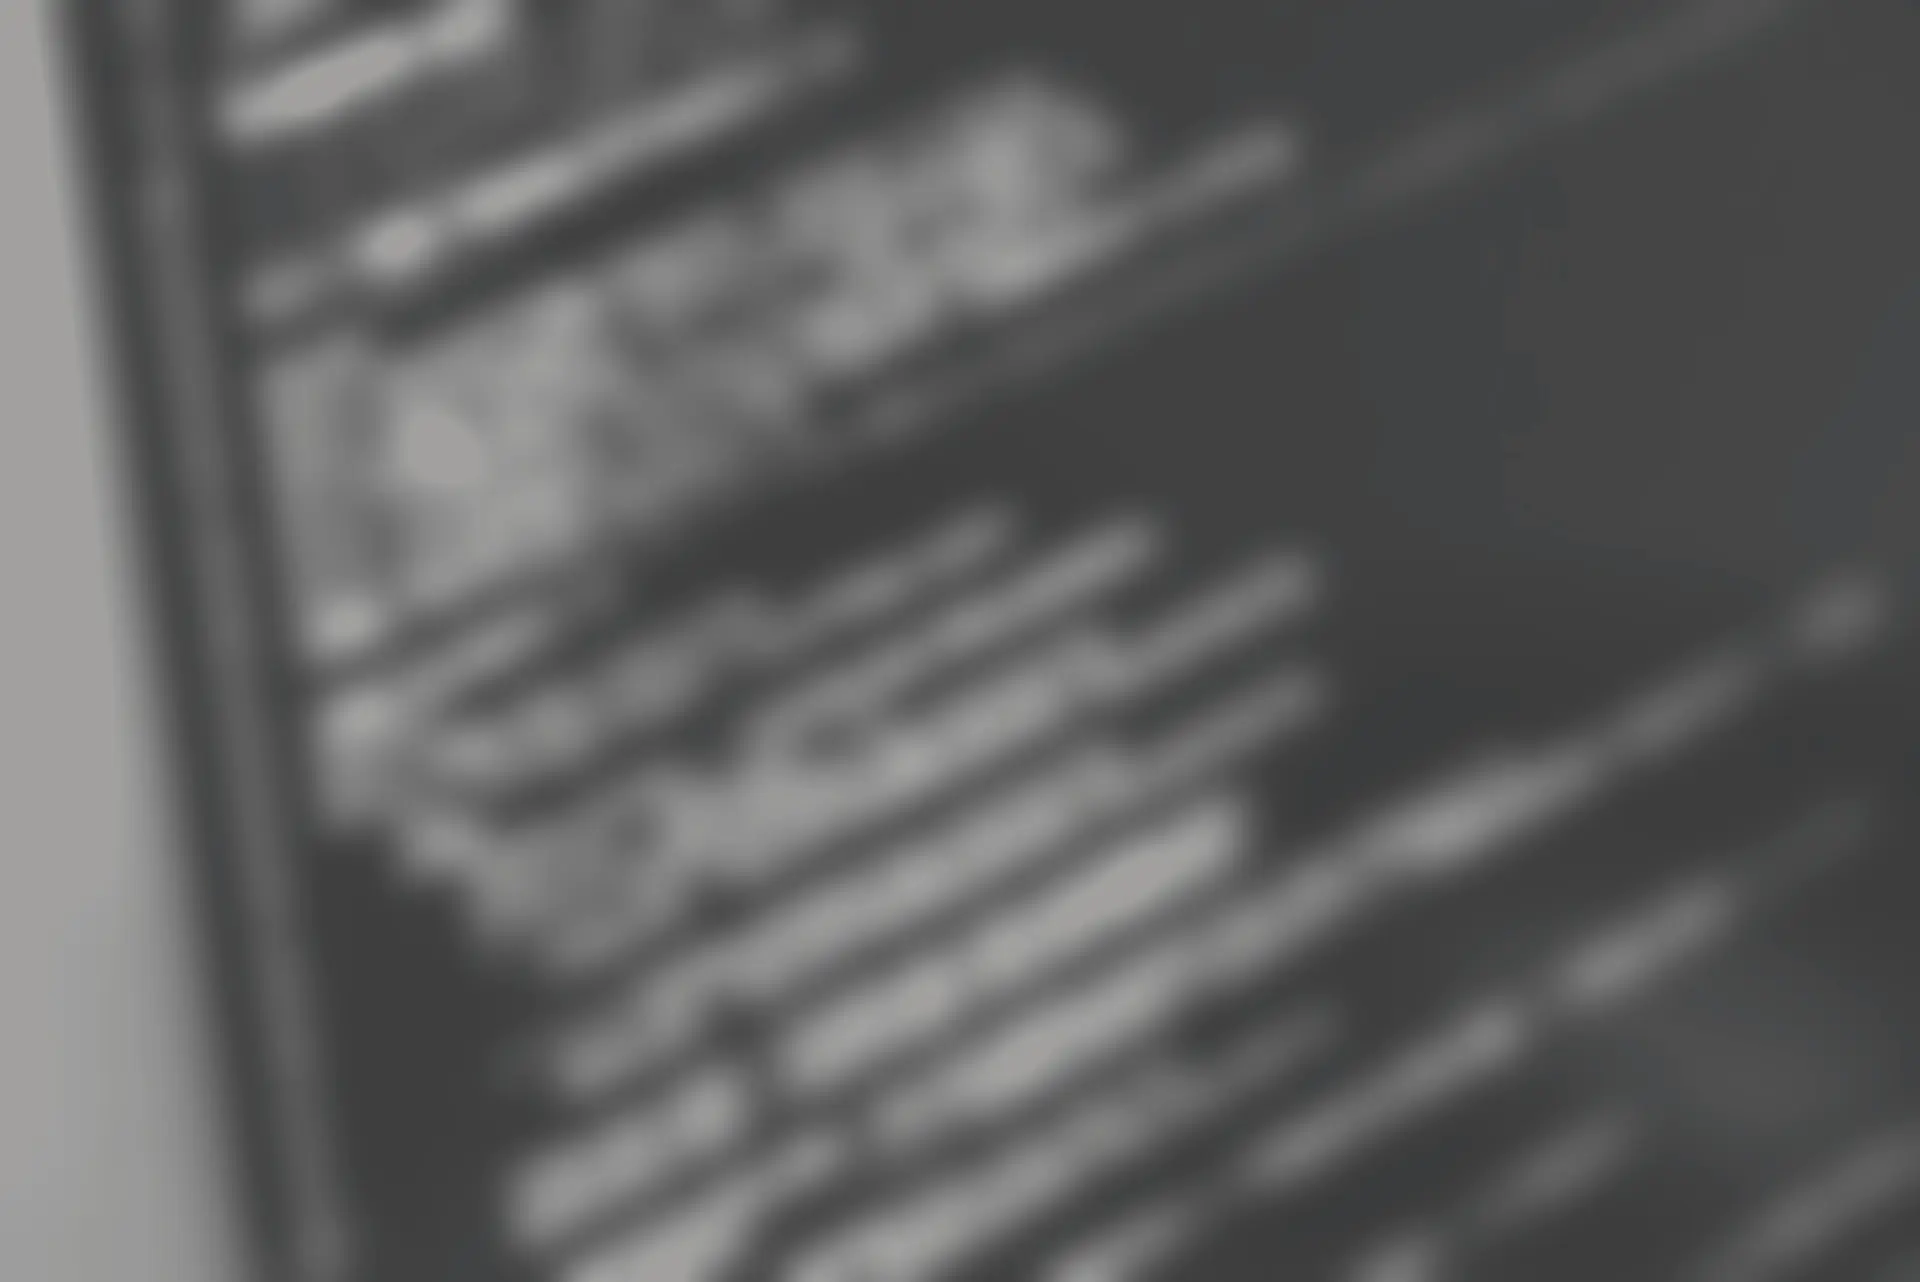
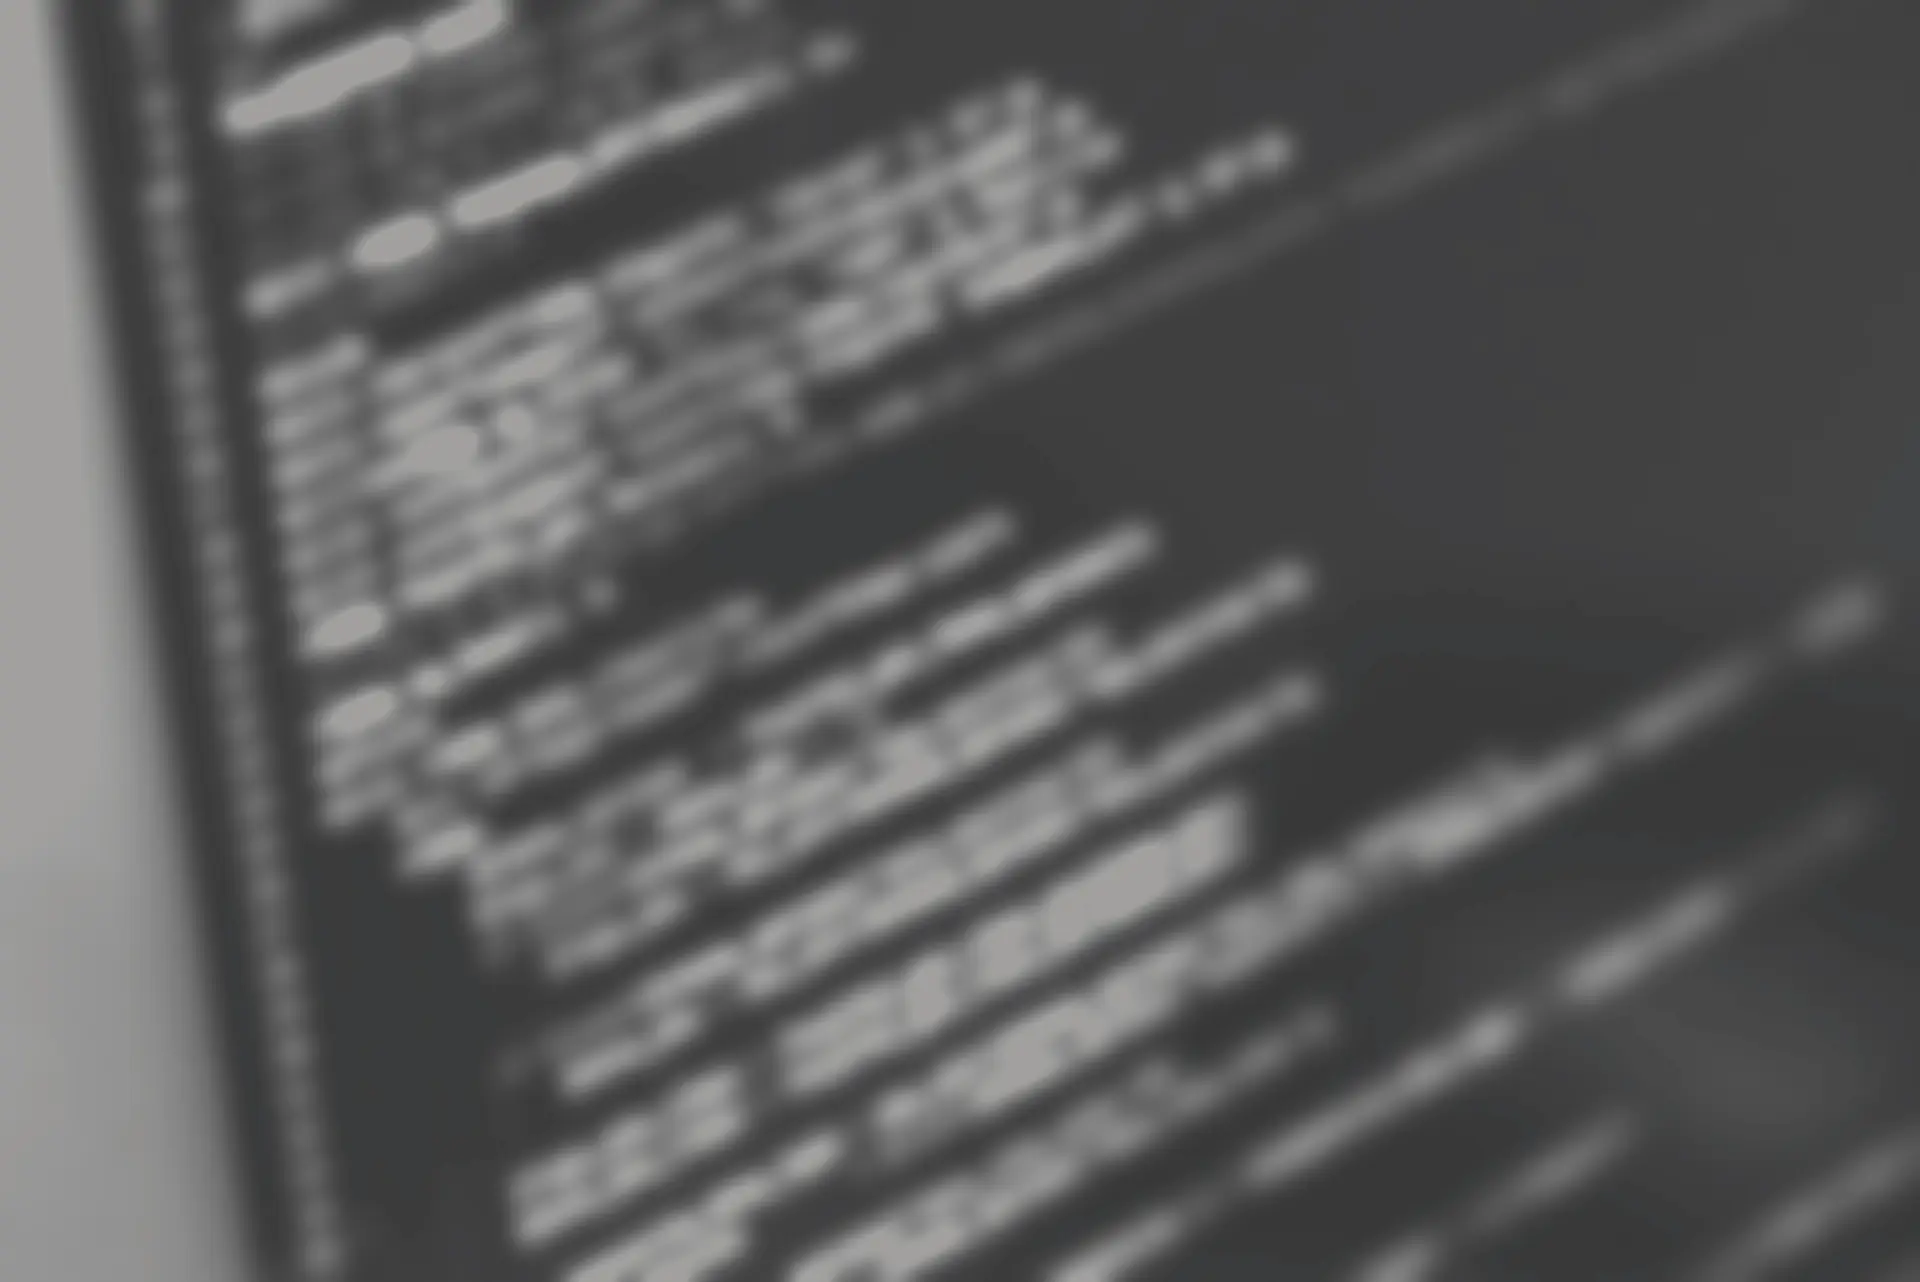
Reduce background blur (20 -> 12) on both themes
Regenerated src/assets/bg/*.webp with bg-source/make-bg.py. Worst-case text
contrast stays above 4.5:1 (dark dim text 4.63, light dim text 5.14).

diff --git a/bg-source/make-bg.py b/bg-source/make-bg.py
@@ -16,7 +16,7 @@ SRC = ROOT / "bg-source" / "bg-code-original.jpg"
 OUT = ROOT / "src" / "assets" / "bg"
 
 # ---- knobs ---------------------------------------------------------------
-BLUR_1920 = 20     # gaussian radius in px at 1920 wide (the 900 wide version is scaled to look the same)
+BLUR_1920 = 12     # gaussian radius in px at 1920 wide (the 900 wide version is scaled to look the same)
 GAIN = 1.0         # >1 brightens the glow, <1 dims it (before the CSS overlay is applied)
 QUALITY = 70       # WebP quality
 GLOW_PERCENTILE = 96   # lower = code lines reach full brightness sooner (more contrast), the brightest spots just clip
